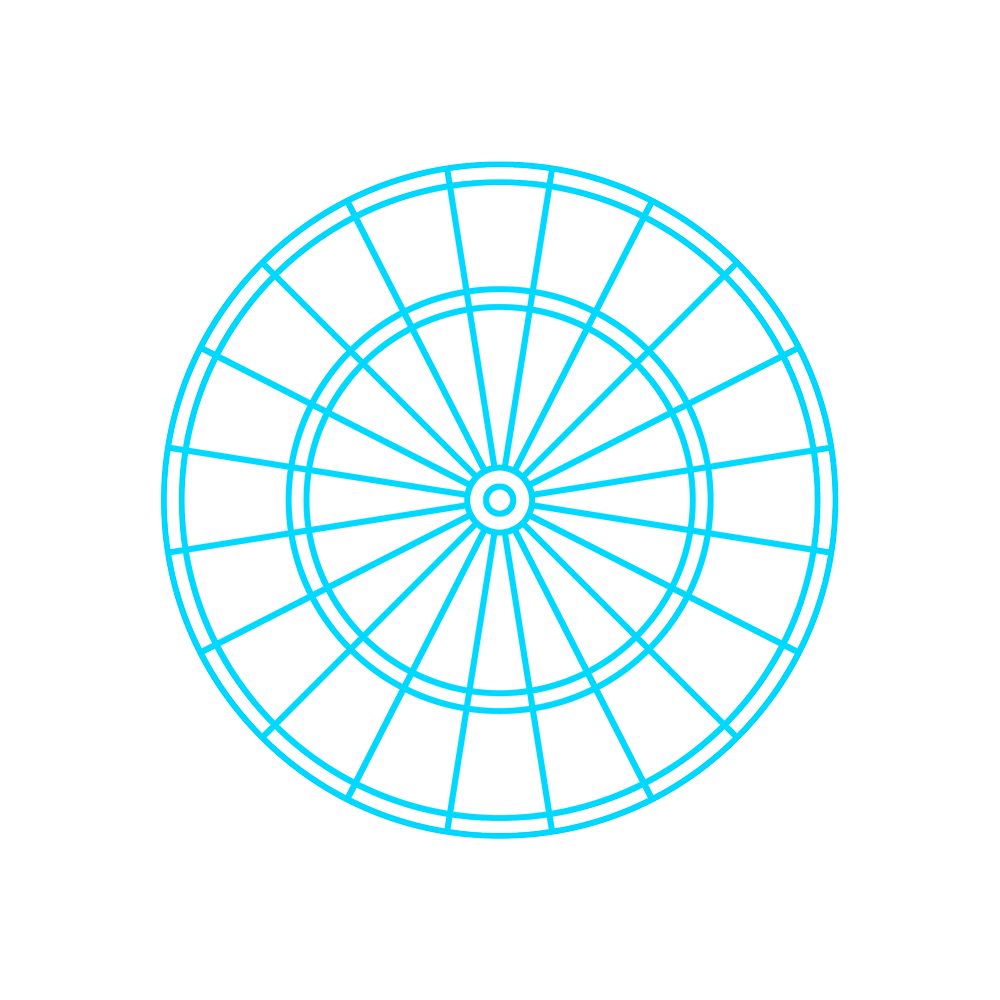
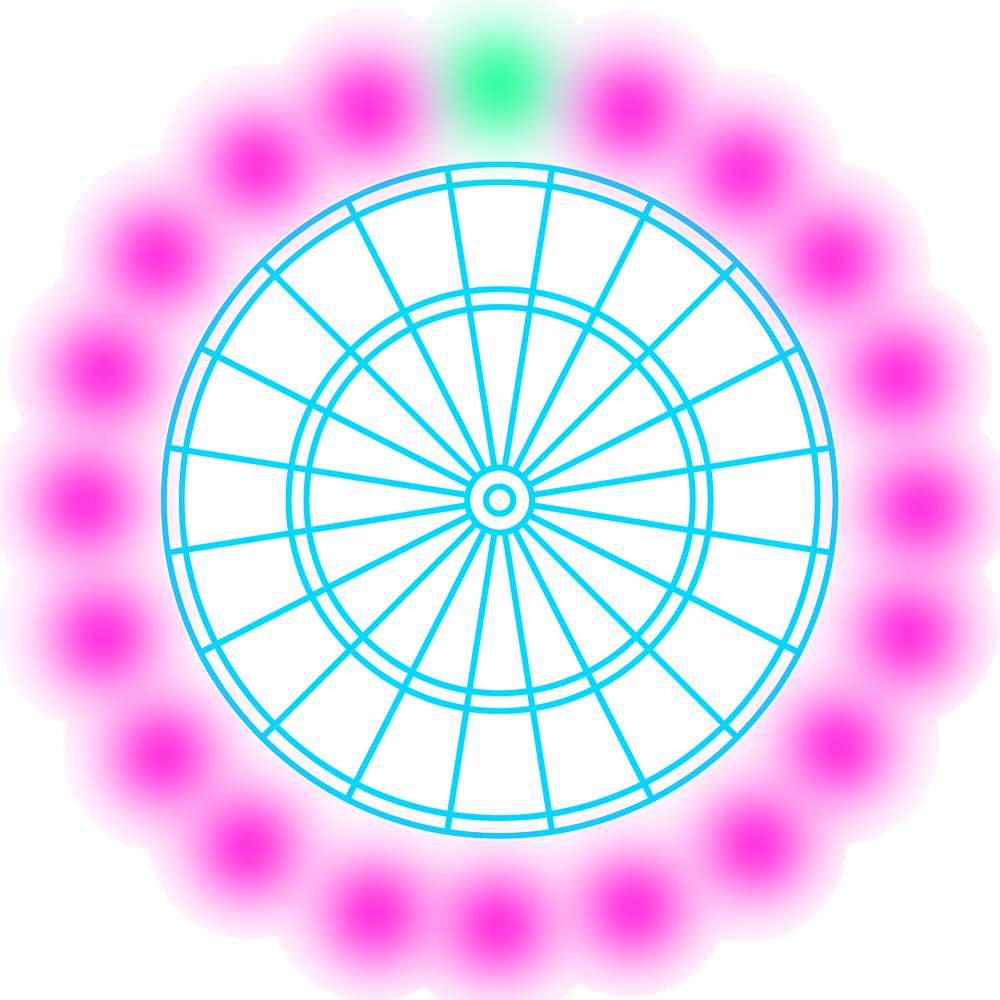
background beach added

diff --git a/templates/play.html b/templates/play.html
@@ -52,6 +52,26 @@
       }
       #board-container {
         position: relative;
+        overflow: hidden;
+      }
+      #board-bg {
+        position: absolute;
+        inset: 0;
+        background-image: url("{{ url_for('static', filename='images/beach.png') }}");
+        background-size: cover;
+        background-position: center;
+        background-repeat: no-repeat;
+        z-index: 0;
+        pointer-events: none;
+      }
+      #dartboard {
+        position: relative;
+        z-index: 1;
+      }
+      #overlay {
+        position: absolute;
+        inset: 0;
+        z-index: 2;
       }
     </style>
   </head>
@@ -66,6 +86,7 @@
     <h1>BainsyBuilds AR Darts</h1>
 
     <div id="board-container">
+      <div id="board-bg" aria-hidden="true"></div>
       <img
         src="{{ url_for('static', filename='images/dartboard.png') }}"
         id="dartboard"

diff --git a/app.py b/app.py
@@ -169,4 +169,4 @@ def detect():
 
 
 if __name__ == '__main__':
-    app.run(host="0.0.0.0", port=5000, debug=True)
+    app.run(host="0.0.0.0", port=5050, debug=True)
